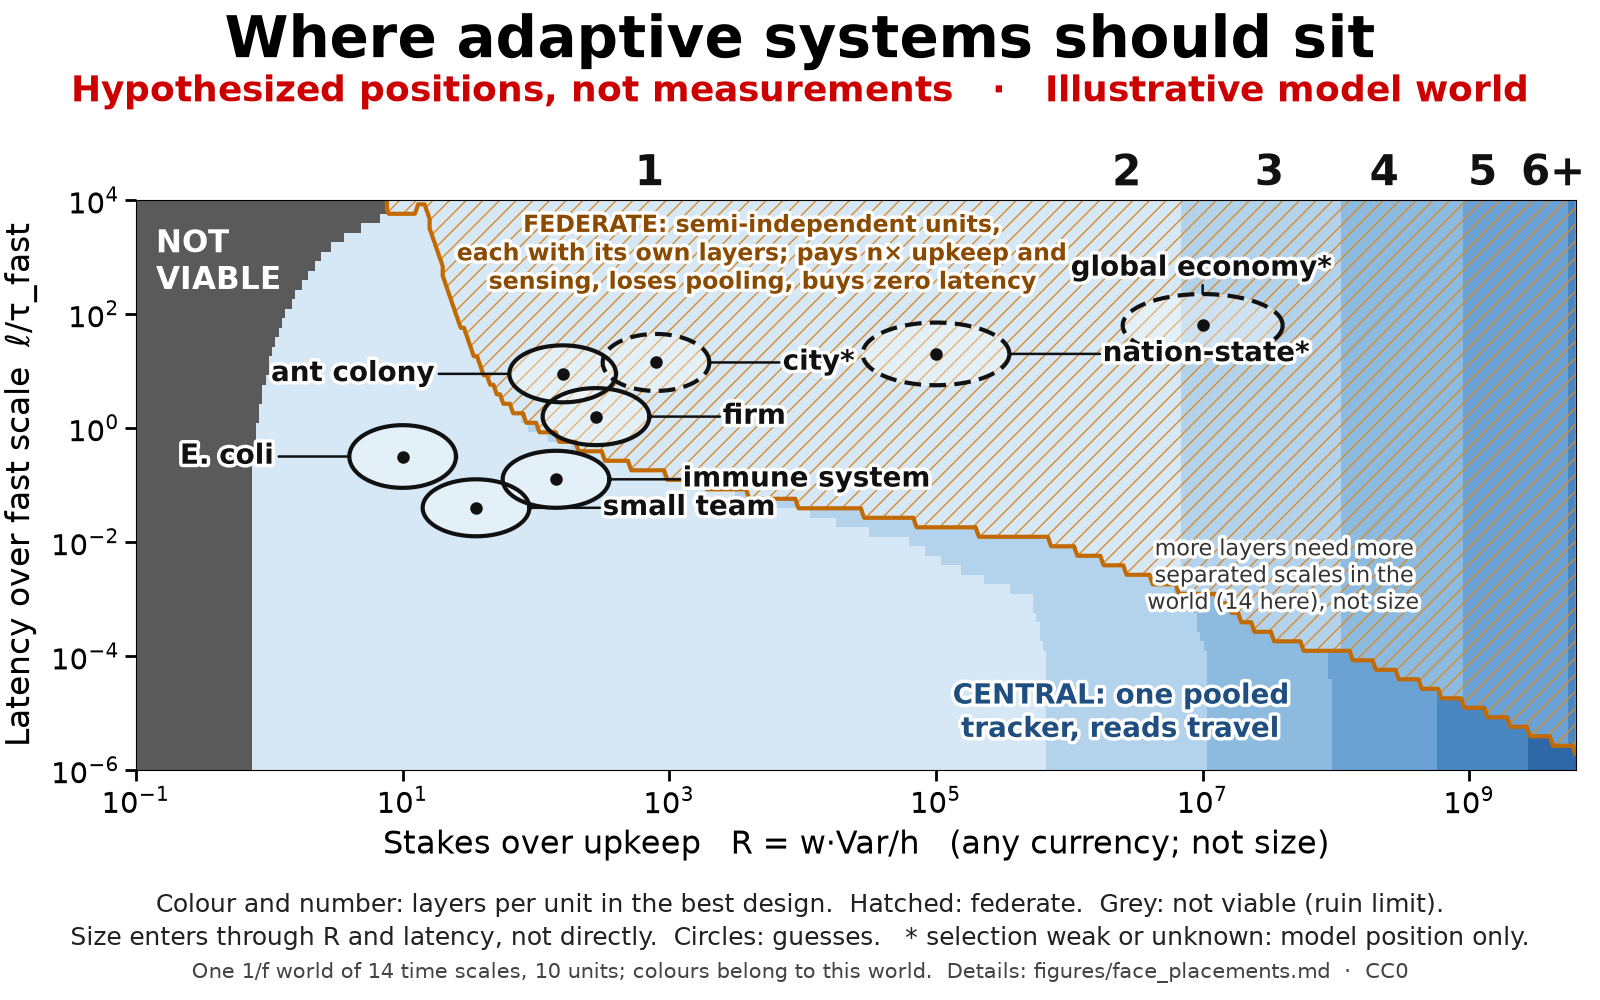
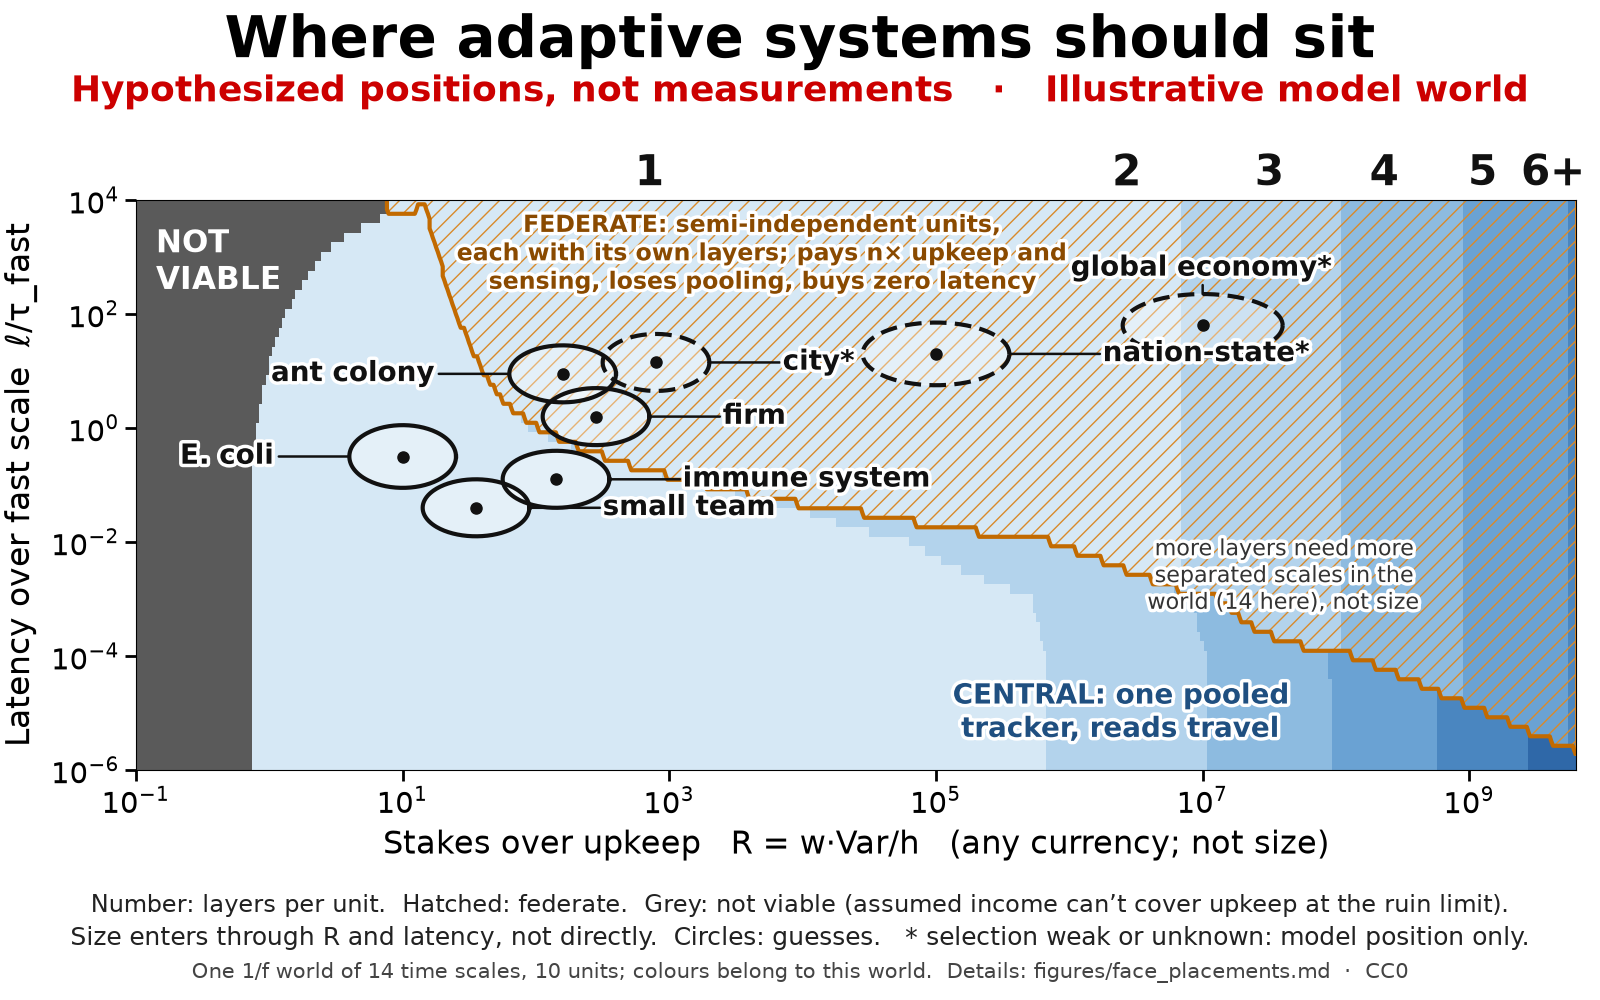
B3 face figure: not-viable reason on the figure (assumed income cannot cover upkeep at the ruin limit); R-ordering assumption stated in placements

Changed region(s): [[0.0625, 0.899, 0.9375, 0.93]]

diff --git a/figures/face.py b/figures/face.py
@@ -77,7 +77,7 @@ ax.set_ylabel('Latency over fast scale  ℓ/τ_fast', fontsize=24, labelpad=10)
 ax.tick_params(labelsize=21, length=8, width=2)
 fig.text(0.5, 0.958, 'Where adaptive systems should sit', ha='center', va='center', fontsize=42, weight='bold')
 fig.text(0.5, 0.908, 'Hypothesized positions, not measurements   ·   Illustrative model world', ha='center', va='center', fontsize=26, weight='bold', color='#cc0000')
-fig.text(0.5, 0.088, 'Colour and number: layers per unit in the best design.  Hatched: federate.  Grey: not viable (ruin limit).', ha='center', fontsize=18, color='#222222')
+fig.text(0.5, 0.088, 'Number: layers per unit.  Hatched: federate.  Grey: not viable (assumed income can\u2019t cover upkeep at the ruin limit).', ha='center', fontsize=17, color='#222222')
 fig.text(0.5, 0.055, 'Size enters through R and latency, not directly.  Circles: guesses.   * selection weak or unknown: model position only.', ha='center', fontsize=18, color='#222222')
 fig.text(0.5, 0.022, 'One 1/f world of 14 time scales, 10 units; colours belong to this world.  Details: figures/face_placements.md  ·  CC0', ha='center', fontsize=15, color='#444444')
 fig.subplots_adjust(left=0.085, right=0.985, top=0.80, bottom=0.23)

diff --git a/figures/face_placements.md b/figures/face_placements.md
@@ -16,7 +16,7 @@
 
 **Why the earlier versions were wrong.** The first figure had two time scales (at most two layers) and a "not viable" region from holding income fixed while stakes rose. The second (v2.4 draft) fixed those but gave federation lead 0, the same error as a central tracker, and a fixed overhead of 20h with no lost pooling, so federation won at every latency once stakes were high (70% of the map), and the multi-layer regions it showed were all federated; and it left the ruin constraint out, so "no not-viable region" meant "not represented". Both are replaced here.
 
-**Axes.** x = R = w·Var/h (stakes over the upkeep of one tracker, any currency; **not** size): size enters through R and through latency, not directly. R is a ratio of stakes to upkeep, but the guesses below happen to rise with the scale of what is at stake, so **the left-to-right order of the circles is a size ordering in effect; it is a guess, not a finding** (R is not measured for any of them). y = ℓ/τ_fast (how late a reading arrives, over the fastest time scale the system tracks). Colour and the number above the map: layers per unit of the best design **for this model world**; hatching: federate; grey: not viable.
+**Axes.** x = R = w·Var/h (stakes over the upkeep of one tracker, any currency; **not** size): size enters through R and through latency, not directly. R is a ratio of stakes to upkeep, and the guesses below were made by asking how much one error exposes against the cost of keeping one tracker. Those guesses rise with the scale of what is at stake, so **the left-to-right order of the circles is in effect a size ordering. That is the guesser's assumption (an error exposes more in a larger system while one tracker's upkeep grows more slowly), not a finding**, and R is not measured for any of them. A measured R could reorder them. y = ℓ/τ_fast (how late a reading arrives, over the fastest time scale the system tracks). Colour and the number above the map: layers per unit of the best design **for this model world**; hatching: federate; grey: not viable.
 
 **Which systems are placed.** The hypothesis is about *strongly selected* systems (THEORY §3), which needs a cost-to-fitness map and a population proxy. The biosphere is not a unit of selection and is **not placed**. Cities, nation-states and the global economy have no preregistered population proxy, so selection there is weak or unknown: they are drawn dashed with an asterisk, as positions the model would give *if* the hypothesis applied, not as evidence for it.
 
